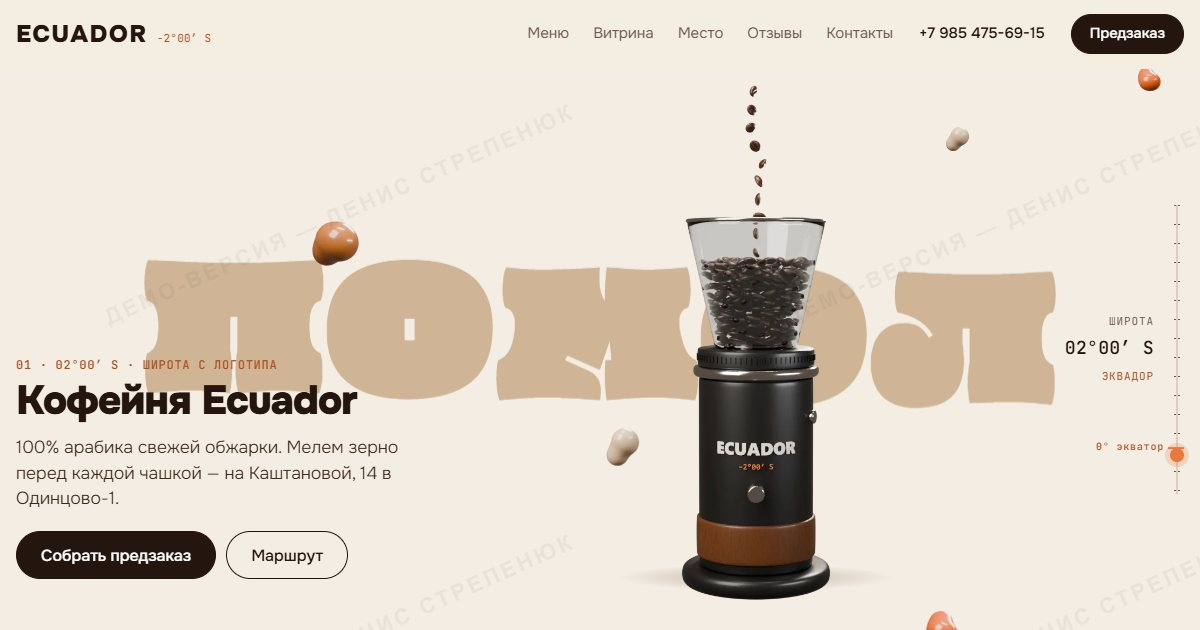
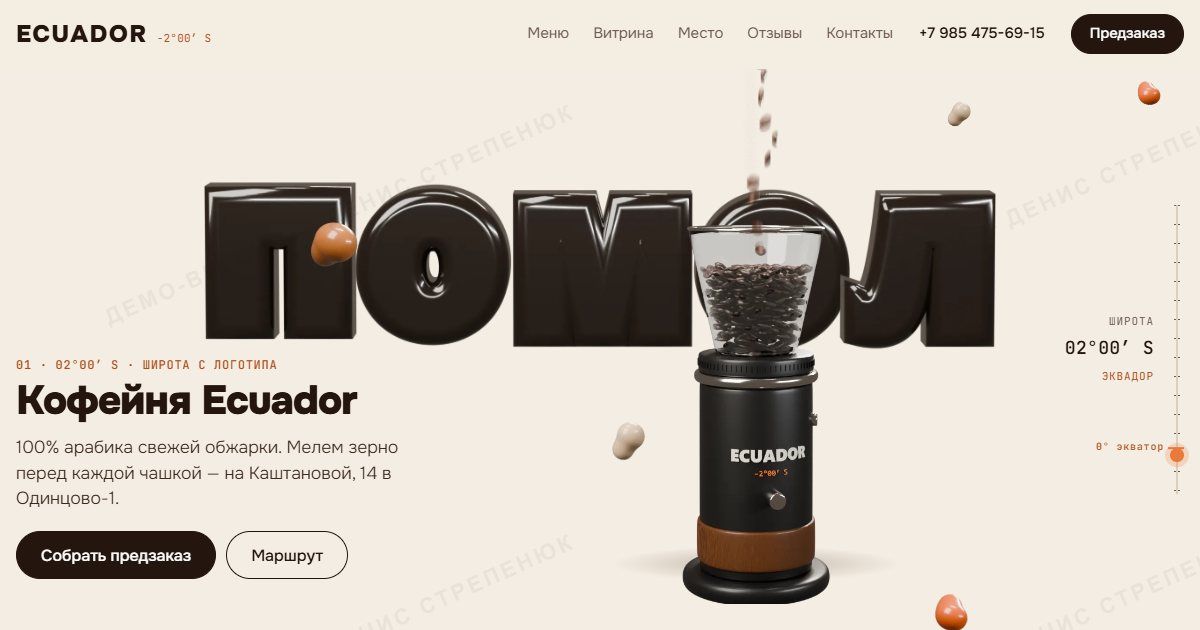
v5: 3D-буквы-карамель, поворот кофемолки по прокрутке, поток зёрен 24 к/с

diff --git a/index.html b/index.html
@@ -145,17 +145,18 @@ html.js-loading body{overflow:hidden}
 .st-panel{display:none}
 .story.live .st-panel{display:block;position:absolute;top:0;bottom:0;left:0;width:58%;background:var(--acc);transform:translateX(-101%);z-index:0}
 .st-words{display:none}
-.story.live .st-words{display:grid;position:absolute;inset:0;z-index:1;mix-blend-mode:multiply;pointer-events:none;place-items:center}
-.st-w{grid-area:1/1;font:400 min(14vw,230px)/.9 var(--disp);color:#D8C3A9;white-space:nowrap;opacity:0}
-.st-w .ch{display:inline-block;will-change:transform}
+.story.live .st-words{display:grid;position:absolute;inset:0;z-index:1;pointer-events:none;place-items:start center;padding-top:clamp(0px,4vh,40px)}
+.st-w{grid-area:1/1;position:relative;width:min(88vw,1380px);aspect-ratio:10/3;opacity:0}
+.st-w img{position:absolute;inset:0;width:100%;height:100%;will-change:transform}
 .st-objs{display:none}
 .story.live .st-objs{display:block;position:absolute;inset:0;z-index:2;pointer-events:none}
 .st-obj{position:absolute;opacity:0;will-change:transform,opacity}
 .st-c{height:100%;transform:translateX(-50%);position:relative}
 .st-c canvas{display:block;height:100%;width:auto}
 .st-c::after{content:"";position:absolute;left:18%;right:18%;bottom:1%;height:5%;border-radius:50%;background:radial-gradient(closest-side,rgba(60,35,20,.28),transparent);z-index:-1}
-#objG{left:63%;top:2%;height:96%}
-#objG .st-c::after{bottom:5%}
+#objG{left:63%;top:-34%;height:130%}
+#objG .st-c::after{bottom:3%}
+#objG canvas + canvas{position:absolute;left:0;top:0}
 #objP .st-c::after{bottom:18%}
 #objC .st-c::after{bottom:26%;left:14%;right:14%}
 #objP{left:61%;top:7%;height:88%}
@@ -417,8 +418,8 @@ html.js-loading body{overflow:hidden}
   .story.live{height:calc(100svh + 6 * 55svh)}
   .story.live .st-pin{height:calc(100svh - var(--hh) - 76px)}
   .story.live .st-panel{width:100%}
-  .story.live .st-words{place-items:start center;padding-top:20%}
-  .st-w{font-size:12vw}
+  .story.live .st-words{place-items:start center;padding-top:16%}
+  .st-w{width:100vw}
   .story.live .st-ch{left:16px;right:16px;width:auto;bottom:58px}
   .st-ch h1,.st-ch h2{font-size:28px;margin:6px 0 8px}
   .st-ch .tx{font-size:15px}
@@ -431,7 +432,8 @@ html.js-loading body{overflow:hidden}
   .st-read b{font-size:15px;margin:2px 0 3px}
   .story.live .st-hint{display:none}
   .st-wrap-static{padding-inline:16px}
-  #objG,#objP{left:50%;top:3%;height:50%}
+  #objP{left:50%;top:3%;height:50%}
+  #objG{left:50%;top:-20%;height:73%}
   #objC{left:50%;top:10%;height:38%}
   .st-beans{left:50%;top:30%}
   .quick{display:flex;overflow-x:auto;scroll-snap-type:x mandatory;scrollbar-width:none;margin-inline:-16px;padding-inline:16px;scroll-padding-inline:16px}
@@ -537,10 +539,10 @@ html.js-loading body{overflow:hidden}
 <section class="story" id="story" aria-label="Кофейня Ecuador: помол, пролив, глоток">
   <div class="st-pin" id="stPin">
     <div class="st-panel" id="stPanel" aria-hidden="true"></div>
-    <div class="st-words" aria-hidden="true"><span class="st-w">ПОМОЛ</span><span class="st-w">ПРОЛИВ</span><span class="st-w">ГЛОТОК</span></div>
+    <div class="st-words" aria-hidden="true"><div class="st-w" data-w="ПОМОЛ"><img src="img/3d/w0_0.webp" width="2400" height="720" alt=""><img src="img/3d/w0_1.webp" width="2400" height="720" alt=""><img src="img/3d/w0_2.webp" width="2400" height="720" alt=""><img src="img/3d/w0_3.webp" width="2400" height="720" alt=""><img src="img/3d/w0_4.webp" width="2400" height="720" alt=""></div><div class="st-w" data-w="ПРОЛИВ"><img src="img/3d/w1_0.webp" width="2400" height="720" alt=""><img src="img/3d/w1_1.webp" width="2400" height="720" alt=""><img src="img/3d/w1_2.webp" width="2400" height="720" alt=""><img src="img/3d/w1_3.webp" width="2400" height="720" alt=""><img src="img/3d/w1_4.webp" width="2400" height="720" alt=""><img src="img/3d/w1_5.webp" width="2400" height="720" alt=""></div><div class="st-w" data-w="ГЛОТОК"><img src="img/3d/w2_0.webp" width="2400" height="720" alt=""><img src="img/3d/w2_1.webp" width="2400" height="720" alt=""><img src="img/3d/w2_2.webp" width="2400" height="720" alt=""><img src="img/3d/w2_3.webp" width="2400" height="720" alt=""><img src="img/3d/w2_4.webp" width="2400" height="720" alt=""><img src="img/3d/w2_5.webp" width="2400" height="720" alt=""></div></div>
     <div class="st-objs" aria-hidden="true">
       <img class="st-blob" src="img/3d/blob_0.webp" width="520" height="520" alt=""><img class="st-blob s2" src="img/3d/blob_1.webp" width="520" height="520" alt=""><img class="st-blob s3" src="img/3d/blob_2.webp" width="520" height="520" alt=""><img class="st-blob s2" src="img/3d/blob_2.webp" width="520" height="520" alt=""><img class="st-blob s3" src="img/3d/blob_1.webp" width="520" height="520" alt="">
-      <div class="st-obj" id="objG"><div class="st-c"><canvas id="seqG" width="800" height="1000"></canvas></div></div>
+      <div class="st-obj" id="objG"><div class="st-c"><canvas id="seqG" width="800" height="1300"></canvas><canvas id="seqB" width="800" height="1300"></canvas></div></div>
       <div class="st-obj" id="objP"><div class="st-c"><canvas id="seqP" width="1100" height="1000"></canvas></div></div>
       <div class="st-obj" id="objC"><div class="st-c"><canvas id="seqC" width="900" height="800"></canvas></div></div>
       <div class="st-beans"><img class="st-bean" src="img/3d/bean_0.webp" alt=""><img class="st-bean" src="img/3d/bean_1.webp" alt=""><img class="st-bean" src="img/3d/bean_2.webp" alt=""><img class="st-bean" src="img/3d/bean_0.webp" alt=""><img class="st-bean" src="img/3d/bean_1.webp" alt=""><img class="st-bean" src="img/3d/bean_2.webp" alt=""></div>
@@ -552,7 +554,7 @@ html.js-loading body{overflow:hidden}
       <p class="tx">100% арабика свежей обжарки. Мелем зерно перед каждой чашкой — на Каштановой, 14 в Одинцово-1.</p>
       <div class="status" id="status" aria-live="polite"><span class="dot"></span><span><span id="stText">Пн–Сб 08:00–21:00, Вс 09:00–21:00</span><small id="stSub">Каштановая ул., 14 · у входа вывеска ECUADOR</small></span></div>
       <div class="btns"><a class="btn btn-dark" href="#menu">Собрать предзаказ</a><a class="btn" href="https://yandex.ru/maps/?rtext=~55.654950%2C37.273525&amp;rtt=pd" target="_blank" rel="noopener">Маршрут</a></div>
-      <figure class="ph st-img"><img src="img/3d/g_000.webp" width="800" height="1000" loading="lazy" alt="Кофемолка ECUADOR со стеклянным бункером, в него сыплются зёрна"></figure>
+      <figure class="ph st-img"><img src="img/3d/grot_000.webp" width="800" height="1300" loading="lazy" alt="Кофемолка ECUADOR со стеклянным бункером, в него сыплются зёрна"></figure>
     </div>
     <div class="st-ch on-acc">
       <p class="label">02 · 05°09′ S · Перу, Сан-Игнасио</p>
@@ -1210,7 +1212,7 @@ $$('.bar-it').forEach(function(b){
   if (reduce || !hasG) { sec.classList.add('static'); readyRes(); return; }
   sec.classList.add('live');
   gsap.registerPlugin(SplitText);
-  var wch = words.map(function(w){ return SplitText.create(w, { type: 'chars', charsClass: 'ch' }).chars; });
+  var wch = words.map(function(w){ return $$('img', w); });
   function seg(u, a, b){ return sm((u - a) / (b - a)); }
   function lerp(a, b, k){ return a + (b - a) * k; }
 
@@ -1224,12 +1226,12 @@ $$('.bar-it').forEach(function(b){
 
   /* кадры: g — кофемолка (крутится сама по кругу), p — пролив и c — чашка (идут за прокруткой) */
   function seq(prefix, n){ var a = []; for (var i = 0; i < n; i++) a.push('img/3d/' + prefix + '_' + (i < 10 ? '00' : '0') + i + '.webp'); return a; }
-  var SEQ = { g: { src: seq('g', 24), img: [], el: $('#seqG') }, p: { src: seq('p', 40), img: [], el: $('#seqP') }, c: { src: seq('c', 24), img: [], el: $('#seqC') } };
+  var SEQ = { g: { src: seq('grot', 36), img: [], el: $('#seqG') }, b: { src: seq('gb', 48), img: [], el: $('#seqB') }, p: { src: seq('p', 40), img: [], el: $('#seqP') }, c: { src: seq('c', 24), img: [], el: $('#seqC') } };
   function load(k){
     var s = SEQ[k];
     return Promise.all(s.src.map(function(u, i){ var im = new Image(); im.decoding = 'async'; im.src = u; s.img[i] = im; return im.decode().catch(function(){}); }));
   }
-  var shown = { g: -1, p: -1, c: -1 };
+  var shown = { g: -1, b: -1, p: -1, c: -1 };
   function show(k, i){
     var s = SEQ[k]; i = clamp(Math.round(i), 0, s.src.length - 1);
     if (shown[k] === i) return;
@@ -1238,7 +1240,7 @@ $$('.bar-it').forEach(function(b){
     if (cv.width !== im.naturalWidth) { cv.width = im.naturalWidth; cv.height = im.naturalHeight; }
     x.clearRect(0, 0, cv.width, cv.height); x.drawImage(im, 0, 0); shown[k] = i;
   }
-  load('g').then(function(){ readyRes(); return load('p'); }).then(function(){ return load('c'); });
+  Promise.all([load('g'), load('b')]).then(function(){ readyRes(); return load('p'); }).then(function(){ return load('c'); });
   setTimeout(readyRes, 4000);
 
   var objG = $('#objG'), objP = $('#objP'), objC = $('#objC'), blobs = $$('.st-blob', sec), beans = $$('.st-bean', sec);
@@ -1271,8 +1273,8 @@ $$('.bar-it').forEach(function(b){
     if (!visible) return;
     /* кофемолка: въезжает сверху при загрузке, уезжает вверх во 2-й главе; зёрна сыплются сами (12 кадров/с) */
     var gUp = seg(cu, 1.4, 2.3), gO = sm(iv * 1.3) * (1 - seg(cu, 1.9, 2.3));
-    tr(objG, 0, -(1 - iv) * 60 - gUp * H * 1.1 + Math.sin(t * .9) * 6, 1, gO);
-    if (gO > .01) show('g', Math.floor(t * 12) % 24);
+    tr(objG, 0, -(1 - iv) * 60 - gUp * H * 1.1 + Math.sin(t * .9) * 6, 1 + seg(cu, 0, 1.4) * .035, gO);
+    if (gO > .01) { show('g', seg(cu, 0, 1.45) * 35); show('b', Math.floor(t * 24) % 48); }
     /* пролив: поднимается снизу, кадры чайника и графина — по прокрутке */
     var pi = seg(cu, 1.7, 2.55), po = seg(cu, 3.6, 4.4), pv = pi * (1 - seg(cu, 4.1, 4.4));
     tr(objP, 0, (1 - pi) * H * .9 - po * H * 1.1, 1, pv);
@@ -1301,7 +1303,7 @@ $$('.bar-it').forEach(function(b){
   window.__story = {
     ready: readyP,
     intro: function(){ if (introV < 1) gsap.to({ v: 0 }, { v: 1, duration: 1.6, ease: 'back.out(1.1)', onUpdate: function(){ introV = this.targets()[0].v; } }); },
-    state: function(){ return { mode: 'live', u: +cu.toFixed(3), lat: +latAt(cu).toFixed(2), place: lastPlace, frames: { g: shown.g, p: shown.p, c: shown.c }, grinder: +objG.style.opacity > .5, pour: +objP.style.opacity > .5, cup: +objC.style.opacity > .5, steps: chs.map(function(c){ return +(+c.style.opacity).toFixed(2); }) }; },
+    state: function(){ return { mode: 'live', u: +cu.toFixed(3), lat: +latAt(cu).toFixed(2), place: lastPlace, frames: { g: shown.g, b: shown.b, p: shown.p, c: shown.c }, grinder: +objG.style.opacity > .5, pour: +objP.style.opacity > .5, cup: +objC.style.opacity > .5, steps: chs.map(function(c){ return +(+c.style.opacity).toFixed(2); }) }; },
     set: function(p){ fixed = clamp(p, 0, 1) * U; tu = cu = fixed; }
   };
 })();
